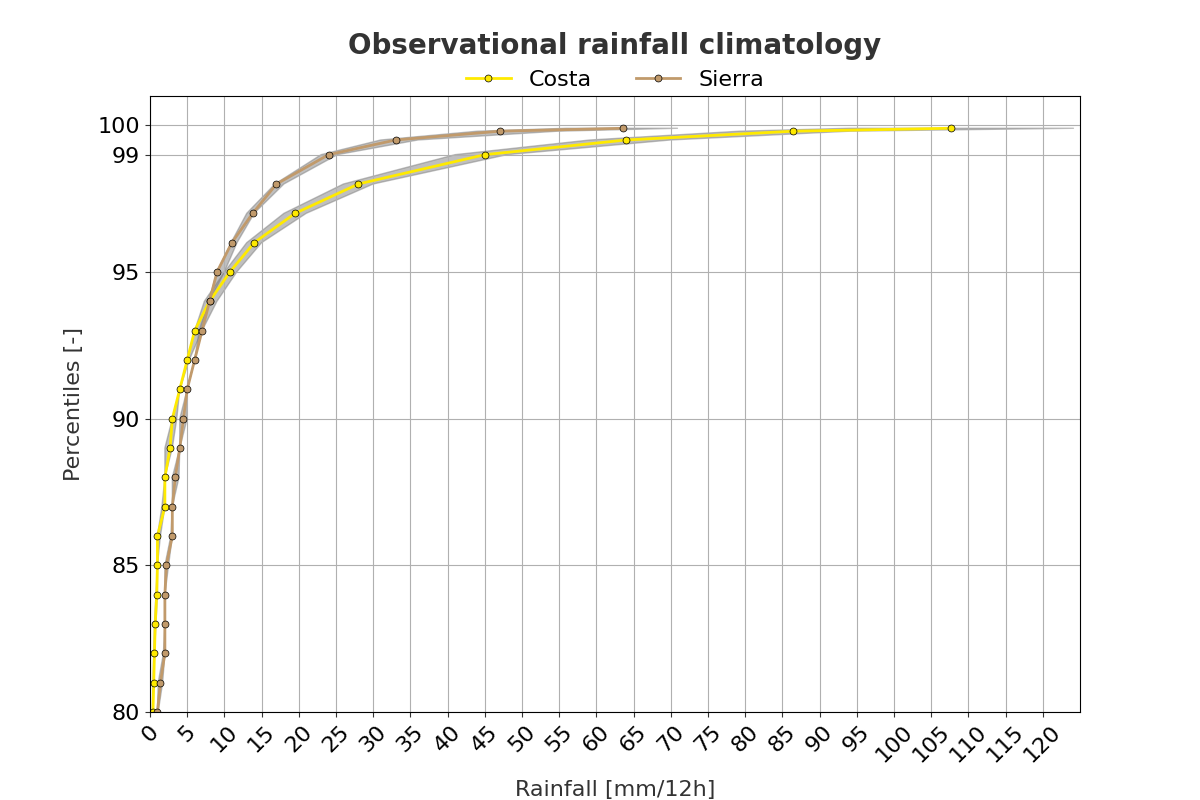
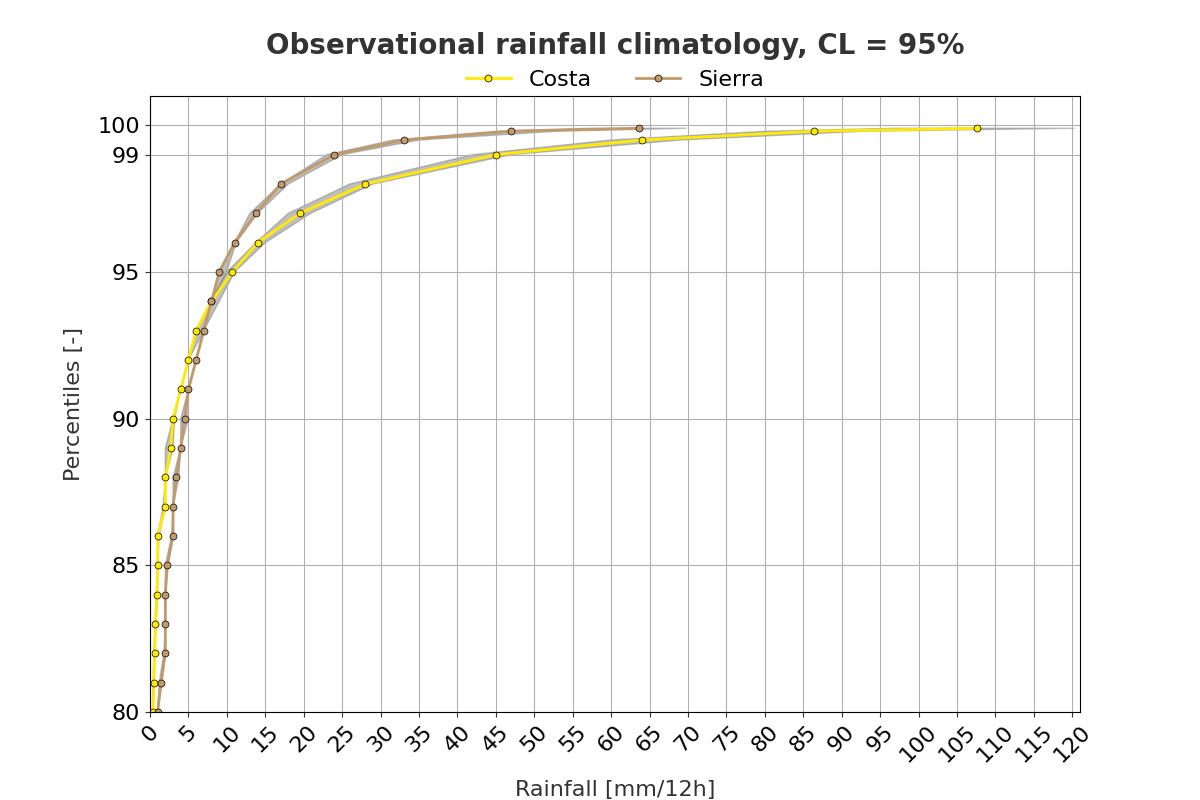
Created the plot of the observational rainfall climatologies with confidence intervals.

diff --git a/Scripts/Processed/08_Plot_Obs_Rain_Climate.py.py b/Scripts/Processed/08_Plot_Obs_Rain_Climate.py.py
@@ -23,7 +23,7 @@ import matplotlib.pyplot as plt
 Acc = 12
 DateS = datetime(2010,1,1,0)
 DateF = datetime(2019,12,31,0)
-CL = 99
+CL = 95
 RegionName_list = ["Costa", "Sierra"]
 RegionColour_list = ["#ffea00", "#c19a6b"]
 Git_repo="/ec/vol/ecpoint_dev/mofp/Papers_2_Write/Verif_Flash_Floods_Ecuador"
@@ -61,7 +61,7 @@ for ind_Region in range(len(RegionName_list)):
       ax.plot(rain_climate_original, percs, "-o", color=RegionColour, linewidth=2, markersize=5, markerfacecolor=RegionColour, markeredgecolor='black', markeredgewidth=0.5, label=RegionName)
 
 # Completing the plot
-ax.set_title("Observational rainfall climatology", fontsize=20, pad=30, weight="bold", color="#333333")
+ax.set_title("Observational rainfall climatology, CL = " + str(CL) + "%", fontsize=20, pad=30, weight="bold", color="#333333")
 ax.set_xlabel("Rainfall [mm/" + str(Acc) + "h]", fontsize=16, labelpad=10, color="#333333")
 ax.set_ylabel("Percentiles [-]", fontsize=16, labelpad=10, color="#333333")
 ax.set_xlim([0,int(np.max(maxCI))+1])
